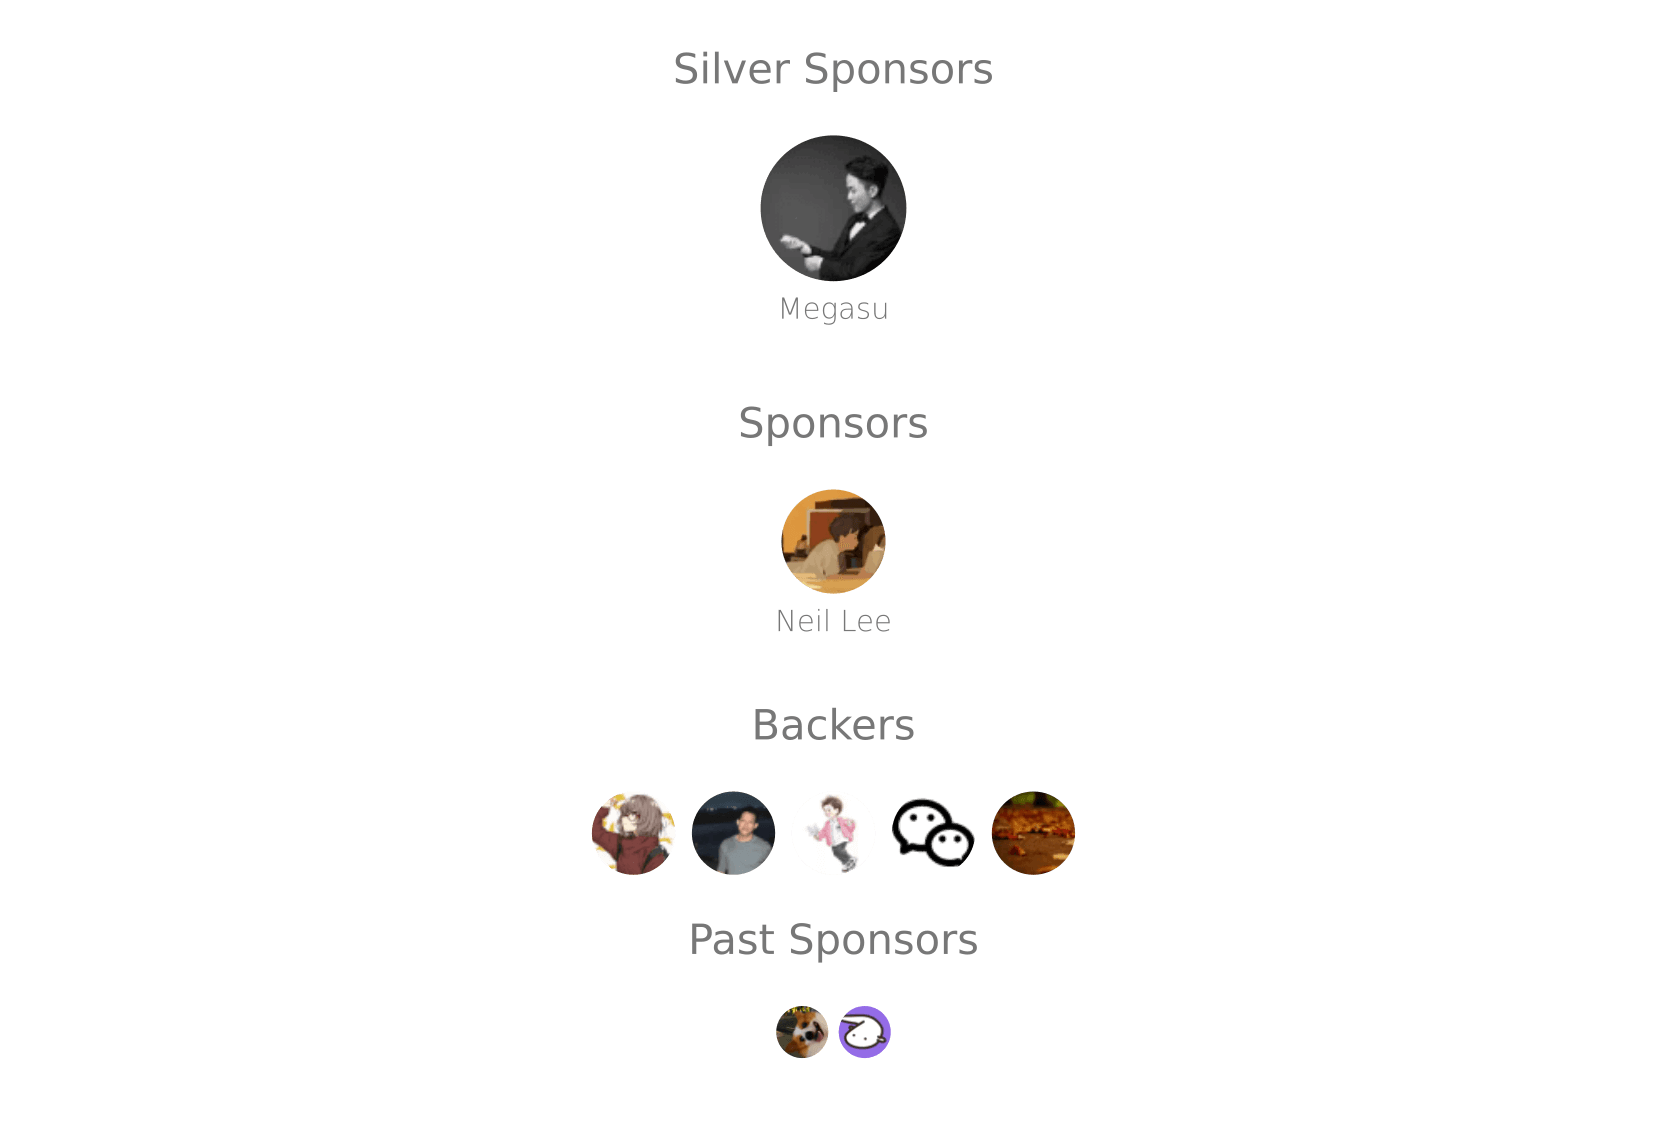
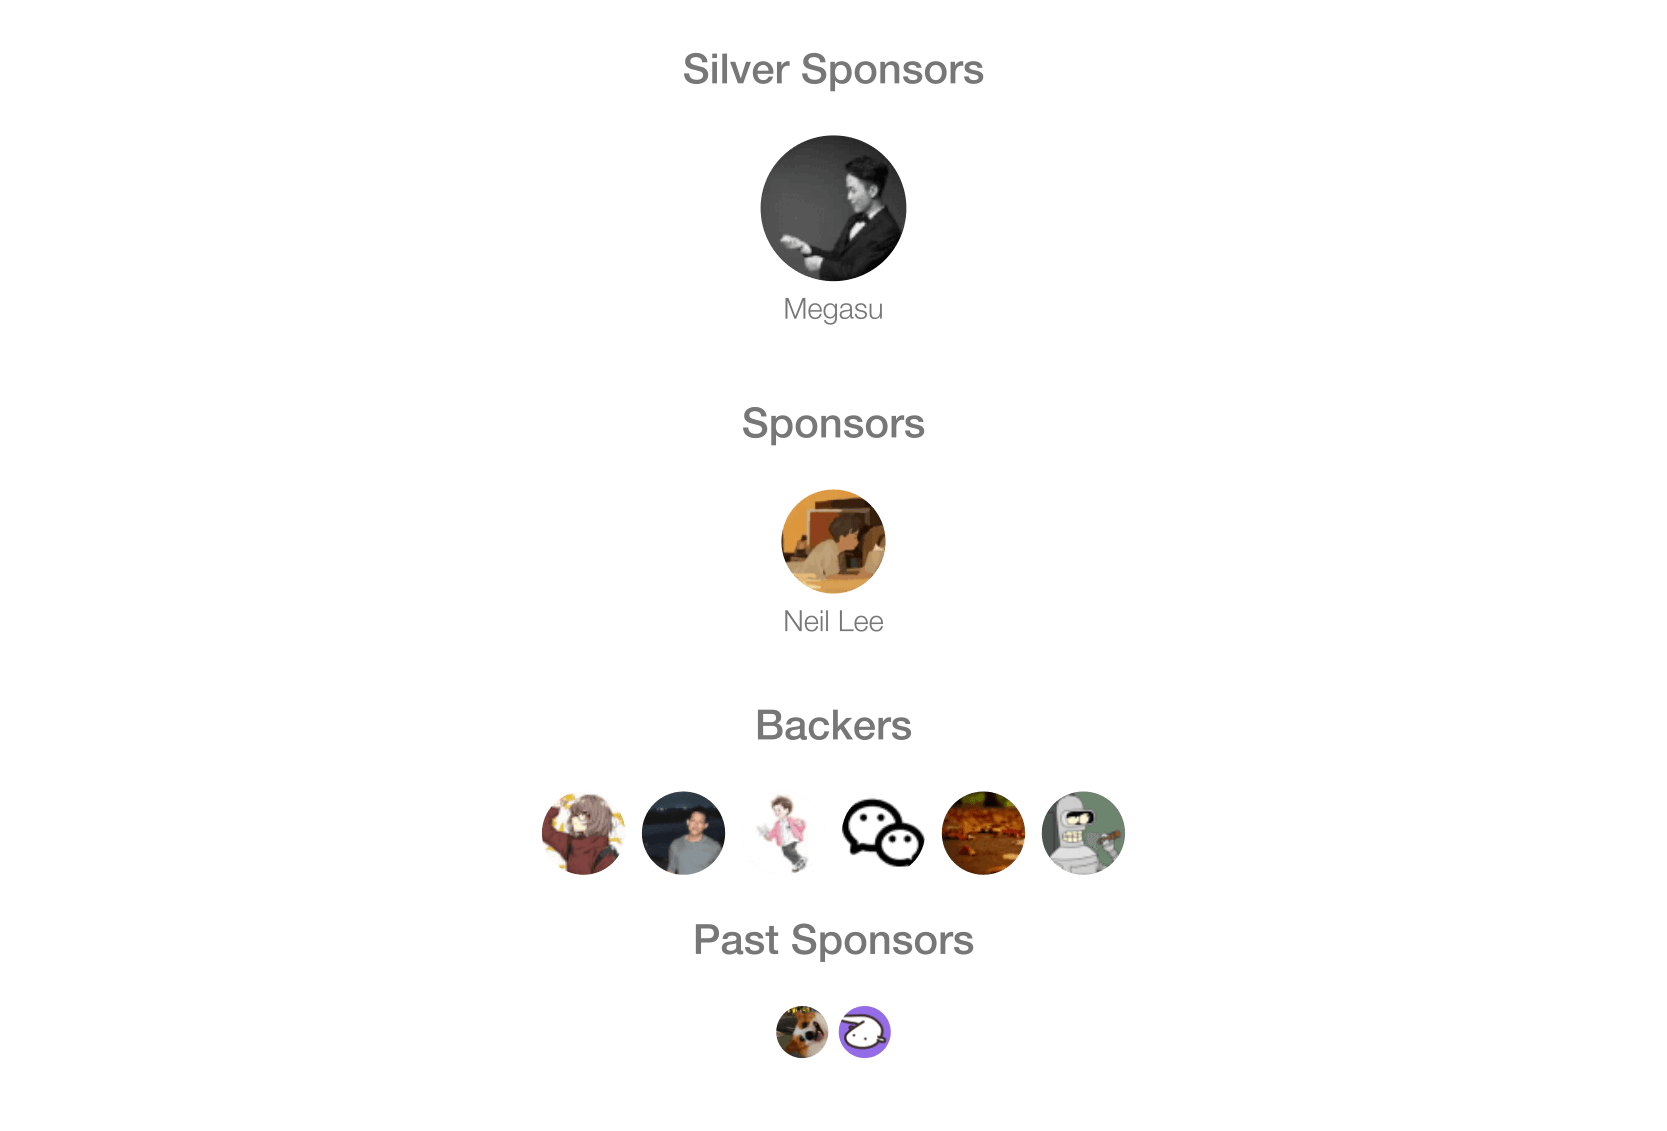
chore: update sponsors

diff --git a/custom-sponsors.ts b/custom-sponsors.ts
@@ -97,7 +97,7 @@ const sponsors: Sponsorship[] = [
       name: "简静凡",
       avatarUrl: "https://avatars.githubusercontent.com/u/30424139?v=4",
     },
-    monthlyDollars: convertCNYToUSD(10.24 + 10.24 + 10.24 + 10.24),
+    monthlyDollars: convertCNYToUSD(10.24 + 10.24 + 10.24 + 10.24 + 10.24),
     privacyLevel: "PUBLIC",
     tierName: "WeChat",
     createdAt: "2024-11-16T09:54:43+08:00",
@@ -124,6 +124,34 @@ const sponsors: Sponsorship[] = [
           cny: 10.24,
           description: "",
           createdAt: "2024-11-18T16:26:38+08:00",
+        },
+        {
+          cny: 10.24,
+          description: "",
+          createdAt: "2024-12-16T23:55:38+08:00",
+        },
+      ],
+    },
+  },
+  {
+    sponsor: {
+      type: "User",
+      login: "buptzyf",
+      name: "buptzyf",
+      avatarUrl: "https://avatars.githubusercontent.com/u/11564966?v=4",
+    },
+    monthlyDollars: convertCNYToUSD(4),
+    privacyLevel: "PUBLIC",
+    tierName: "WeChat",
+    createdAt: "2025-01-06T13:42:54+08:00",
+    isOneTime: true,
+    provider: "WeChat",
+    raw: {
+      sponsors: [
+        {
+          cny: 4,
+          description: "感谢",
+          createdAt: "2025-01-06T13:42:54+08:00",
         },
       ],
     },
